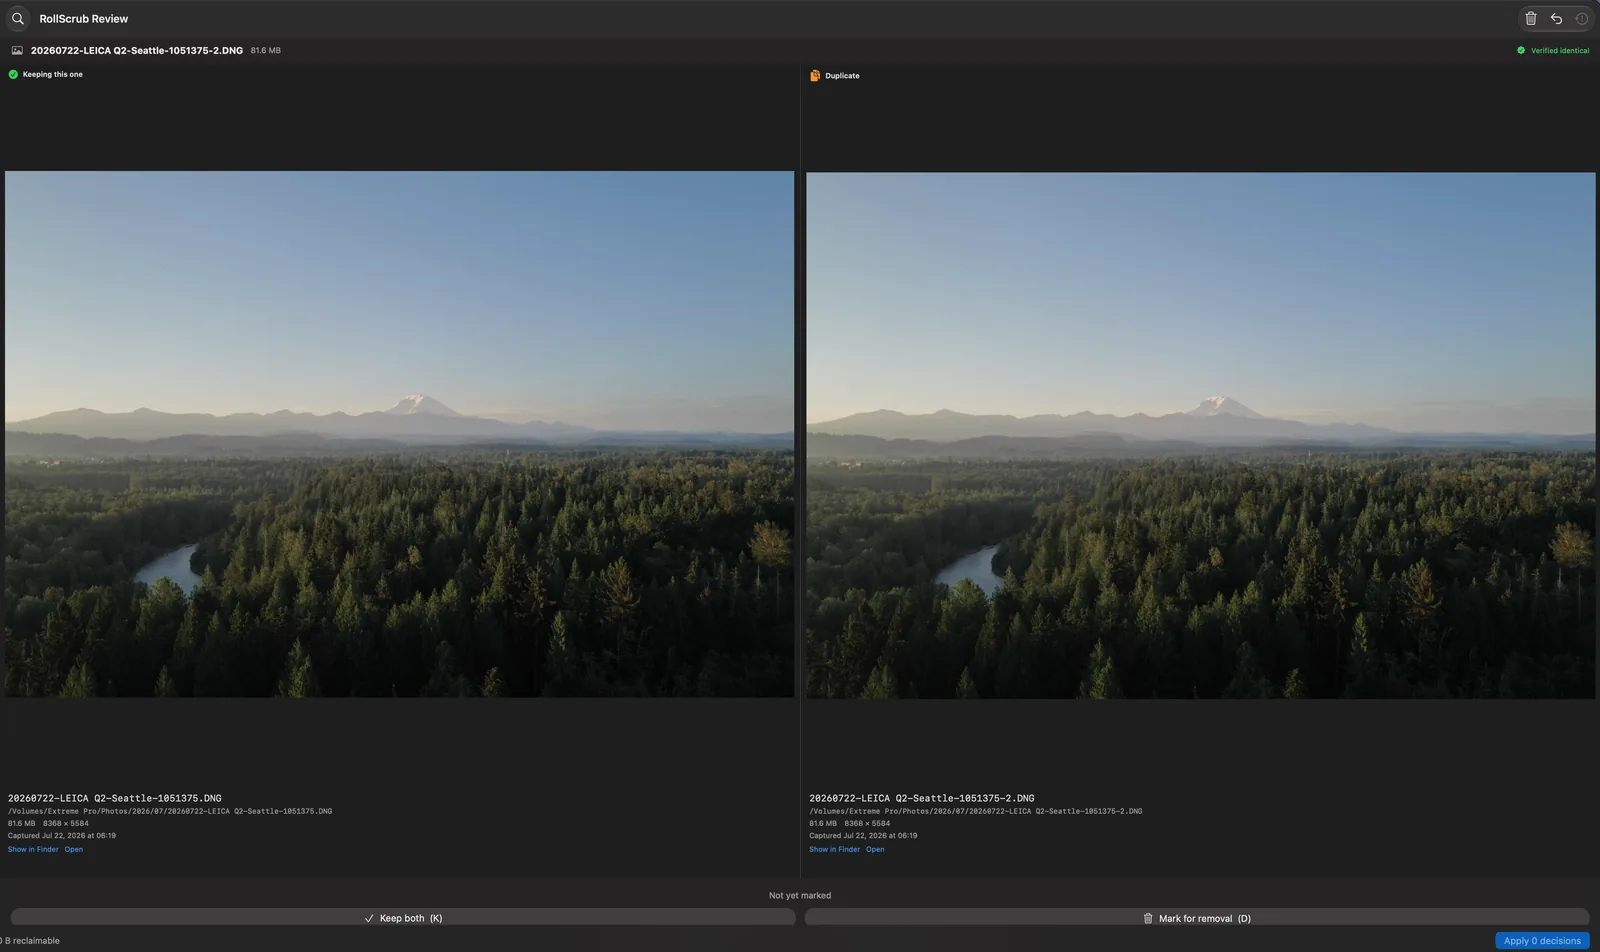
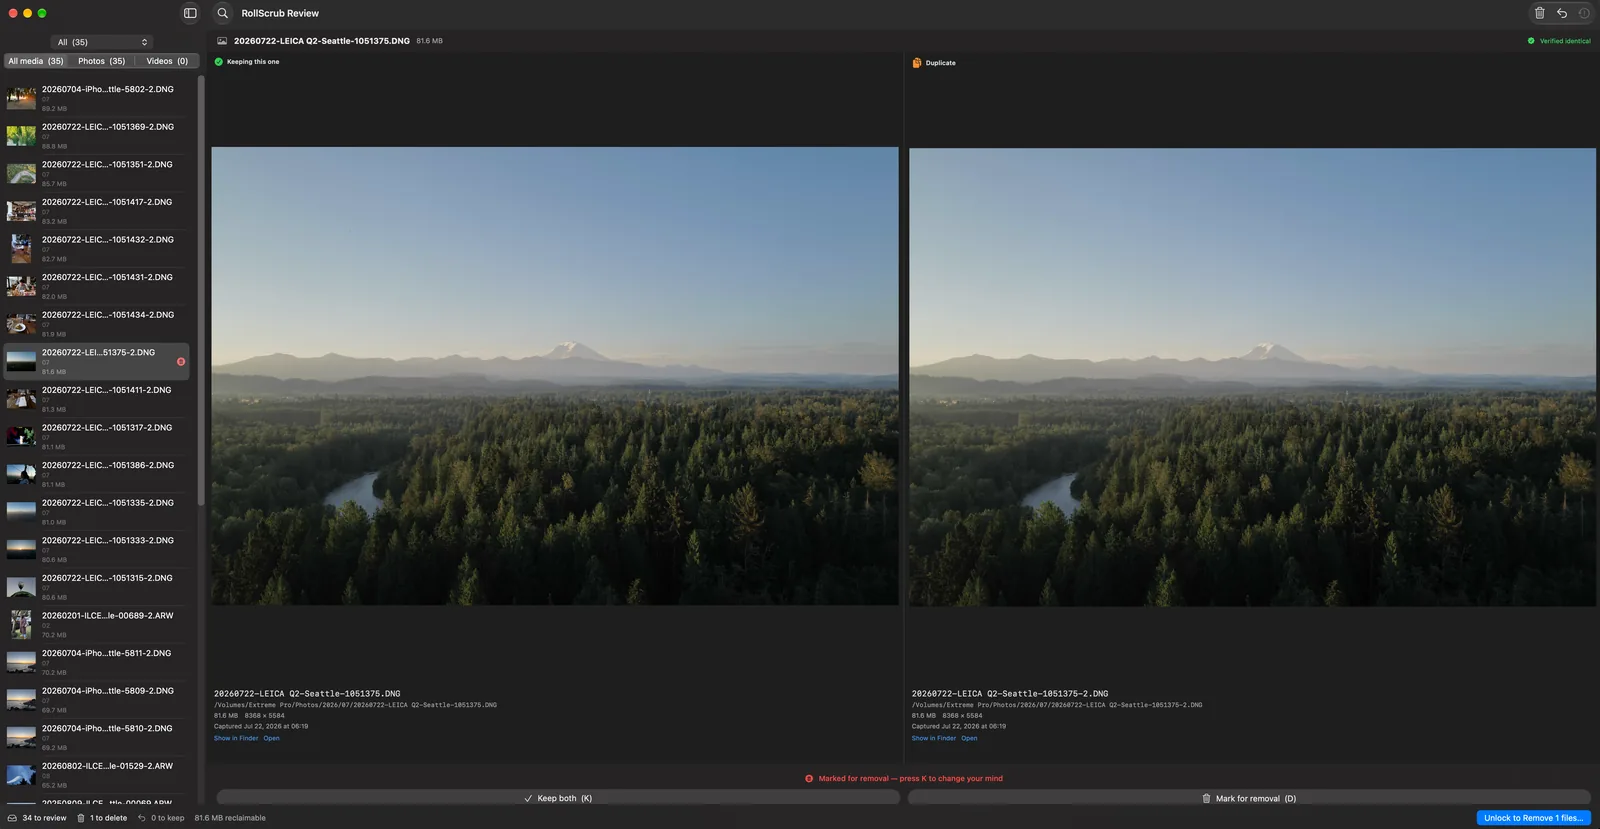
Ship the corrected screenshot; stop writing "1 files"
The hero image showed the old header naming the duplicate as the pair,
which contradicted the page's central claim at full width. Replaced with
a shot from the current build: the header names the keeper, and the media
filter is visible in the sidebar.

The new screenshot also caught a string bug in the act — the apply button
read "Unlock to Remove 1 files…". "1 files" in a button someone is about
to press on their photographs undermines the care the rest of the app is
arguing for. Pluralised here and in the restore summary, which had a
placeholder "file(s)".

diff --git a/Sources/RollScrubApp/ContentView.swift b/Sources/RollScrubApp/ContentView.swift
@@ -34,13 +34,20 @@ struct ContentView: View {
         !license.isPro && !session.markedForDiscard.isEmpty
     }
 
+    /// "1 files" in a button someone is about to press on their photographs
+    /// undermines the care the rest of the app is arguing for.
+    private static func count(_ n: Int, _ singular: String, _ plural: String) -> String {
+        "\(n) \(n == 1 ? singular : plural)"
+    }
+
     private var applyButtonTitle: String {
+        let files = Self.count(session.markedForDiscard.count, "file", "files")
         if needsLicenceToApply {
-            return "Unlock to Remove \(session.markedForDiscard.count) files…"
+            return "Unlock to Remove \(files)…"
         }
         return session.markedForDiscard.isEmpty
-            ? "Apply \(session.markedForKeep.count) decisions"
-            : "Remove \(session.markedForDiscard.count) files…"
+            ? "Apply \(Self.count(session.markedForKeep.count, "decision", "decisions"))"
+            : "Remove \(files)…"
     }
 
     var body: some View {
@@ -478,7 +485,10 @@ struct ContentView: View {
         }
         let restores = session.markedForKeep.filter { $0.originalPath != nil }.count
         if restores > 0 {
-            parts.append("\(restores) file(s) go back to their original folders.")
+            parts.append(
+                "\(Self.count(restores, "file", "files")) "
+                + "\(restores == 1 ? "goes" : "go") back to "
+                + "\(restores == 1 ? "its" : "their") original folder\(restores == 1 ? "" : "s").")
         }
         return parts.joined(separator: "\n\n")
     }

diff --git a/site/index.html b/site/index.html
@@ -546,10 +546,11 @@
   </header>
 
   <figure class="shot">
-    <img src="/review.webp" width="1600" height="952" fetchpriority="high" decoding="async"
-         alt="RollScrub's review window: the same photograph of Mount Rainier shown twice,
-              side by side. The left is marked &quot;Keeping this one&quot;, the right
-              &quot;Duplicate&quot;, and a badge reads &quot;Verified identical&quot;.">
+    <img src="/review.webp" width="1600" height="829" fetchpriority="high" decoding="async"
+         alt="RollScrub's review window: a list of 35 duplicate frames on the left, and the
+              same photograph of Mount Rainier shown twice side by side. The left copy is
+              marked &quot;Keeping this one&quot;, the right &quot;Duplicate&quot;, and a
+              badge reads &quot;Verified identical&quot;.">
     <figcaption>
       <span class="swatch keep"></span>
       <span>Every pair, side by side, at full size — with both paths, both sizes, and
